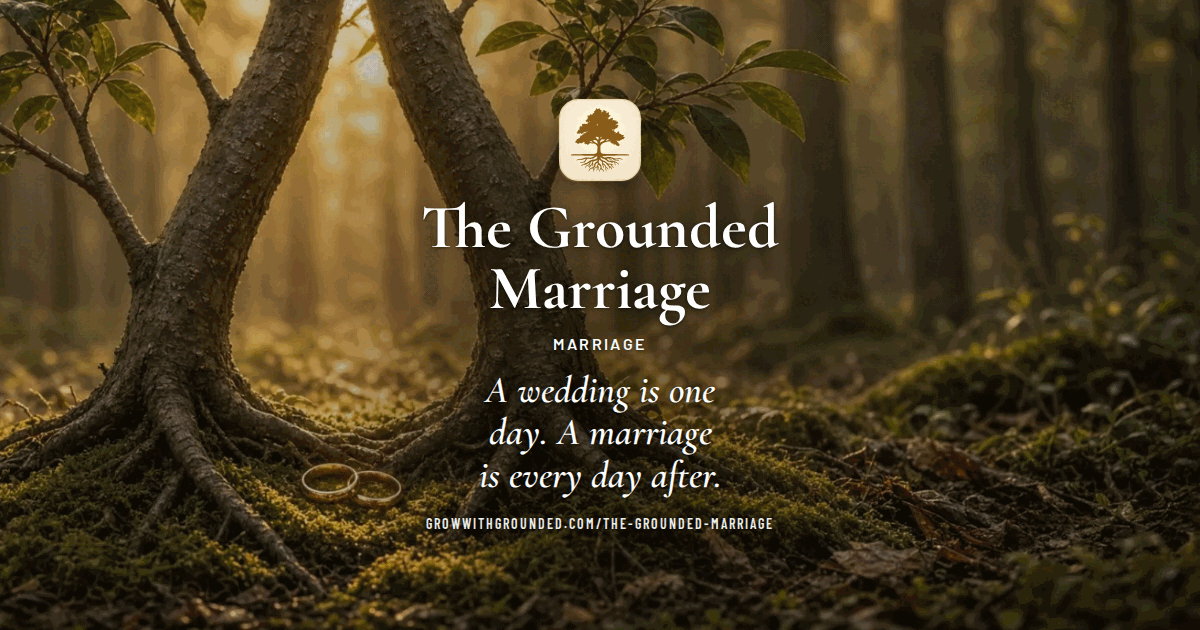
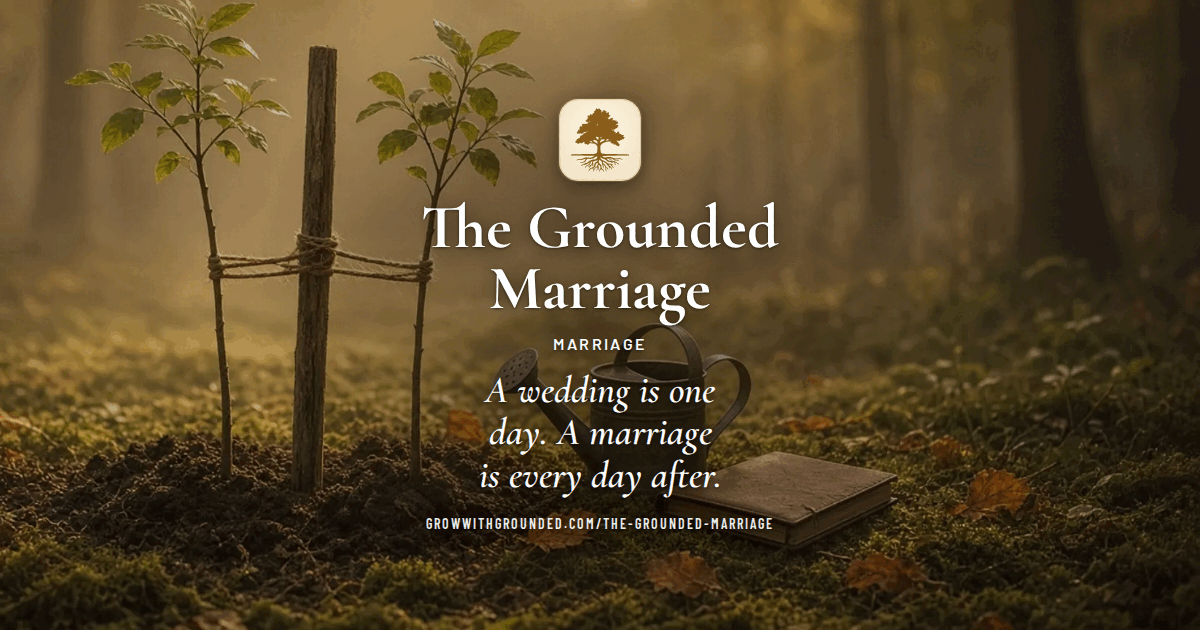
BLD 818: one page for The Grounded Marriage; premarital sessions forward to it; its own menu picture
Claude-Session: https://claude.ai/code/session_01WcZgsAiFdTphwpdYq1mWZF

diff --git a/premarital-counseling.html b/premarital-counseling.html
@@ -1,95 +1,16 @@
 <!DOCTYPE html>
 <html lang="en">
 <head>
-<script>(function(){try{var m=document.cookie.match(/(?:^|; )gg_theme=(light|dark)/);var t=m?m[1]:localStorage.getItem("gg_theme");if(t==="light"||t==="dark"){document.documentElement.setAttribute("data-theme",t);document.documentElement.style.colorScheme=t;}}catch(e){}})();</script>
 <meta charset="UTF-8">
-<meta name="viewport" content="width=device-width, initial-scale=1.0, viewport-fit=cover">
-<meta name="color-scheme" content="light dark">
-<meta name="theme-color" content="#8B5E1A">
-<title>Premarital Education in St. Cloud, MN: The Grounded Marriage | Grow With Grounded</title>
-<meta name="description" content="The Grounded Marriage: 12 hours of premarital sessions with a couple married 22 years, Heartwood, and the reduced Minnesota license fee. St. Cloud, MN.">
-<link rel="canonical" href="https://growwithgrounded.com/premarital-counseling">
-<meta property="og:type" content="website">
-<meta property="og:site_name" content="Grow With Grounded">
-<meta property="og:url" content="https://growwithgrounded.com/premarital-counseling">
-<meta property="og:title" content="Premarital Sessions | Grow With Grounded">
-<meta property="og:description" content="The Grounded Marriage: 12 hours of premarital sessions with a couple married 22 years, Heartwood, and the reduced Minnesota license fee. St. Cloud, MN.">
-<meta property="og:image" content="https://growwithgrounded.com/share/premarital-counseling.png?v=b816">
-<meta property="og:image:width" content="1200">
-<meta property="og:image:height" content="630">
-<meta name="twitter:card" content="summary_large_image">
-<meta name="twitter:title" content="Premarital Sessions | Grow With Grounded">
-<meta name="twitter:description" content="The Grounded Marriage: 12 hours of premarital sessions with a couple married 22 years, Heartwood, and the reduced Minnesota license fee. St. Cloud, MN.">
-<meta name="twitter:image" content="https://growwithgrounded.com/share/premarital-counseling.png?v=b816">
-<link rel="icon" type="image/svg+xml" href="favicon.svg">
-<link rel="apple-touch-icon" href="apple-touch-icon.png?v=b792c">
-<link rel="stylesheet" href="/fonts/fonts.css?v=b788">
-<link rel="stylesheet" href="style.css?v=b817">
-<script type="application/ld+json">{"@context":"https://schema.org","@type":"ProfessionalService","name":"Grow With Grounded","url":"https://growwithgrounded.com/","email":"hello@growwithgrounded.com","description":"Guidance and support to walk through every stage of life: weddings, blessings, funerals, end-of-life and grief support, and growth tools for every age. For all faith traditions and everything in-between.","areaServed":["St. Cloud","Sartell","Sauk Rapids","Waite Park","Minnesota"],"address":{"@type":"PostalAddress","addressLocality":"St. Cloud","addressRegion":"MN","addressCountry":"US"},"founder":[{"@type":"Person","name":"Kayti Joy"},{"@type":"Person","name":"Chris Joy","jobTitle":"Chaplain"}],"priceRange":"$$"}</script>
+<meta name="viewport" content="width=device-width, initial-scale=1.0">
+<title>Premarital Counseling in St. Cloud, MN | The Grounded Marriage</title>
+<link rel="canonical" href="https://growwithgrounded.com/the-grounded-marriage">
+<meta name="robots" content="noindex, follow">
+<meta http-equiv="refresh" content="0; url=/the-grounded-marriage.html">
+<script>/* Premarital sessions are The Grounded Marriage, so this page opens it (BLD 818). Anything after the # comes along. */
+(function(){try{location.replace('/the-grounded-marriage.html'+(location.hash||''));}catch(e){}})();</script>
 </head>
 <body>
-<a class="skip" href="#main">Skip to content</a>
-<header class="topbar"><div class="wrap topbar-inner">
-  <a class="brand" href="index.html" aria-label="Grow With Grounded home"><svg class="brand-icon" aria-hidden="true" focusable="false" viewBox="0 0 3200 3536" preserveAspectRatio="xMidYMid meet"><use href="/shared/marks/grounded-logo.svg?v=b788#icon"/></svg> <span class="brand-name">Grow With Grounded<span class="tm" aria-hidden="true">&trade;</span></span> </a>
-  <button class="menu-btn" aria-expanded="false" aria-controls="site-menu" aria-label="Menu"><svg class="icon" width="24" height="24" viewBox="0 0 24 24" fill="none" stroke="currentColor" stroke-width="2" stroke-linecap="round" aria-hidden="true"><path d="M4 7h16M4 12h16M4 17h16"/></svg></button>
-  <nav class="site-menu" id="site-menu" aria-label="Main"><a href="index.html">Home</a><a href="services.html" class="current" aria-current="page">Services</a><a href="tools.html">Tools</a><a href="stories.html">Stories</a><a href="about.html">About</a><a href="contact.html">Contact</a></nav>
-</div></header>
-<main id="main">
-<section class="pg-hero soft ph ph-marriage ph-top" style="--img:url(/shared/heroes/svc-premarital-wide.webp?v=b816);--img-n:url(/shared/heroes/svc-premarital-narrow.webp?v=b816)">
-  <div class="wrap pg-hero-in">
-    <a class="cp-back" href="services-marriage.html">&larr; Marriage</a>
-    <div class="eyebrow">Marriage</div>
-    <h1>Premarital Sessions</h1>
-    <p class="cer-sub">The Grounded Marriage: build a strong foundation before the wedding day, with a couple who has been married 22 years.</p>
-    <div class="card-actions cer-actions gg-watch-acts"><!-- PAGE VIDEO (BLD 780) --><button type="button" class="btn btn-primary gg-watch gg-watch-hero" data-gg-watch="premarital-counseling" hidden>Watch: Premarital Sessions</button><!-- /PAGE VIDEO --><a class="btn btn-light" href="contact.html#plan=Premarital%20Sessions">Ask About The Grounded Marriage</a></div>
-  </div>
-</section>
-<section>
-  <div class="wrap cp-body">
-    <div class="cp-intro"><p>The wedding is one day. The marriage is every day after. Premarital sessions help you understand each other more deeply, talk honestly about the things couples often avoid, and learn skills that carry you through the hard seasons.</p><p>Our premarital program is <a class="text-link" href="the-grounded-marriage.html">The Grounded Marriage</a>: 12 hours with Chris and Kayti in six two-hour sessions, Heartwood, your private app for the two of you, with Before the Vows, After the Vows, the Couple Workbook, videos, and Practices for Two. It is interfaith and built to your faith.</p></div>
-    <div class="eyebrow">What to expect</div>
-    <h2>From first hello to the day itself.</h2>
-    <ol class="journey cp-journey"><li><span class="j-ic"><b>1</b></span><h3>A first conversation</h3><p>Meet us, ask questions, and see if it is a fit.</p></li><li><span class="j-ic"><b>2</b></span><h3>Before the Vows</h3><p>At your first session you get your Heartwood code. Each of you answers the questions on your own, and Strengths and Growing Edges shows where you stand together.</p></li><li><span class="j-ic"><b>3</b></span><h3>Six sessions together</h3><p>We read your results together and practice communication and conflict skills, two hours at a time, with the Couple Workbook.</p></li><li><span class="j-ic"><b>4</b></span><h3>After the Vows</h3><p>Practices for Two and a monthly check-in at home, then your First-Year Check-in with us.</p></li></ol>
-  </div>
-</section>
-<section>
-  <div class="wrap cp-body">
-    <div class="cp-two">
-      <div class="card cp-card cel"><div class="eyebrow">Make it yours</div><h3>Ways we can shape it</h3><ul class="cp-list"><li><svg viewBox="0 0 24 24" fill="none" stroke="currentColor" stroke-width="2.2" stroke-linecap="round" stroke-linejoin="round" aria-hidden="true"><path d="M5 12.5l4.5 4.5L19 7"/></svg><span>Communication and resolving conflict</span></li><li><svg viewBox="0 0 24 24" fill="none" stroke="currentColor" stroke-width="2.2" stroke-linecap="round" stroke-linejoin="round" aria-hidden="true"><path d="M5 12.5l4.5 4.5L19 7"/></svg><span>Finances and money habits, with The Money Map</span></li><li><svg viewBox="0 0 24 24" fill="none" stroke="currentColor" stroke-width="2.2" stroke-linecap="round" stroke-linejoin="round" aria-hidden="true"><path d="M5 12.5l4.5 4.5L19 7"/></svg><span>Family of origin and in-laws</span></li><li><svg viewBox="0 0 24 24" fill="none" stroke="currentColor" stroke-width="2.2" stroke-linecap="round" stroke-linejoin="round" aria-hidden="true"><path d="M5 12.5l4.5 4.5L19 7"/></svg><span>Faith and shared values, built to your tradition, two traditions, or none</span></li><li><svg viewBox="0 0 24 24" fill="none" stroke="currentColor" stroke-width="2.2" stroke-linecap="round" stroke-linejoin="round" aria-hidden="true"><path d="M5 12.5l4.5 4.5L19 7"/></svg><span>Roles, expectations, closeness, and parenting</span></li><li><svg viewBox="0 0 24 24" fill="none" stroke="currentColor" stroke-width="2.2" stroke-linecap="round" stroke-linejoin="round" aria-hidden="true"><path d="M5 12.5l4.5 4.5L19 7"/></svg><span>Your goals and dreams for the years ahead</span></li></ul></div>
-      <div class="card cp-card"><div class="eyebrow">Good to know</div><h3>Practical details</h3><ul class="cp-list plain"><li><span>In Minnesota, 12 hours of premarital education that includes a premarital inventory and communication and conflict skills lowers your marriage license fee to $50 instead of $125. Our 12 hours are built for that, and we sign the Educator&#39;s Statement your county requires.</span></li><li><span>Available in person near St. Cloud or on Zoom.</span></li><li><span>Pairs naturally with your wedding ceremony: The Grounded Marriage + Your Ceremony brings both together, with your rehearsal included.</span></li></ul></div>
-    </div>
-    <div class="cp-callout"><h3>Heartwood, your private app for the two of you.</h3><p>The Grounded Marriage comes with Heartwood, and it opens with the code from your first session. In Before the Vows, each of you answers privately, then Strengths and Growing Edges and Talk About This show what to talk about next, and where you already agree. After the Vows opens after your wedding. Your answers stay on your own devices.</p><a class="text-link" href="/heartwood/">See a Sample</a></div>
-    
-    <div class="eyebrow" style="margin-top:40px;">Common questions</div>
-    <details class="faq"><summary>Do we need to be religious?</summary><p>The Grounded Marriage welcomes couples of all faith traditions and everything in-between, and we build your sessions to your faith, whatever it is.</p></details><details class="faq"><summary>What if we are already married?</summary><p>Ask us. After the Vows, in Heartwood, is made for married couples, with Practices for Two and the Monthly Check-in for Two, and we can shape sessions for where you are now.</p></details><details class="faq"><summary>Is this therapy?</summary><p>It is premarital education and coaching. If deeper issues come up, we will help you find the right support.</p></details>
-    <details class="cp-rates" open><summary><b>Investment</b><span>View rates</span></summary>
-      <table class="rate-table"><tr><td>The Grounded Marriage (12 hours of premarital sessions with both of us)</td><td>From $950</td></tr><tr><td>The Grounded Marriage + Your Ceremony (the program, a fully custom wedding ceremony, and your rehearsal)</td><td>From $1,650</td></tr></table>
-      <p class="rate-note">Travel is included for the first 30 miles. Beyond that, travel is charged at the IRS mileage rate, plus airfare if needed and a hotel or host home for overnights. We travel anywhere. <a class="text-link" href="rates.html">See all rates</a></p>
-      <p class="rate-note"><strong>Everyone is welcome, whatever your budget.</strong> Reduced rates and grace spots are set aside every month. If you're able to give a little extra when you pay, it funds a grace spot for another couple.</p>
-    </details>
-    <div class="cp-related" style="margin-top:40px;"><div class="eyebrow">You may also like</div><div class="cer-tiles"><a class="cer-tile cel" href="the-grounded-marriage.html"><b>The Grounded Marriage</b><span>Premarital sessions with Chris and Kayti, with Heartwood.</span></a><a class="cer-tile cel" href="weddings.html"><b>Weddings</b><span>Your story, your vows, your way.</span></a><a class="cer-tile cel" href="elopements.html"><b>Elopements</b><span>Just the two of you, anywhere.</span></a></div></div>
-  </div>
-</section>
-<section class="cer-cta-band">
-  <div class="wrap">
-    <h2>Ready to talk?</h2>
-    <p>Tell us a little about what you have in mind. We read every message and reply within two days.</p>
-    <a class="btn btn-light" href="contact.html#plan=Premarital%20Sessions">Ask About The Grounded Marriage</a>
-  </div>
-</section>
-</main>
-<footer class="site-footer"><div class="wrap">
-  <a class="foot-brand" href="index.html" aria-label="Grow With Grounded home"><svg class="foot-tree" aria-hidden="true" focusable="false" viewBox="0 0 4664 3536" preserveAspectRatio="xMidYMid meet"><use href="/shared/marks/grounded-logo.svg?v=b788#tree"/></svg> <span class="foot-name">Grow With Grounded<span class="tm" aria-hidden="true">&trade;</span></span> </a>
-  <p class="foot-tag">For every threshold, from first breath to last.</p>
-  <nav class="foot-links" aria-label="Footer">
-    <a class="text-link" href="index.html">Home</a><a class="text-link" href="services.html">Services</a><a class="text-link" href="stories.html">Stories</a><a class="text-link" href="https://growwithgrounded.com/library/">Library</a><a class="text-link" href="rates.html">Rates</a><a class="text-link" href="about.html">About</a><a class="text-link" href="contact.html">Contact</a><a class="text-link" href="tools.html">Tools</a><a class="text-link" href="https://growwithgrounded.com/maple/">Maple</a><a class="text-link" href="https://growwithgrounded.com/aspen/">Aspen</a><a class="text-link" href="https://growwithgrounded.com/pine/">Pine</a><a class="text-link" href="https://growwithgrounded.com/birch/">Birch</a><a class="text-link" href="https://growwithgrounded.com/oak/">Oak</a><a class="text-link" href="https://growwithgrounded.com/sequoia/">Sequoia</a><a class="text-link" href="https://growwithgrounded.com/willow/">Willow</a><a class="text-link" href="https://growwithgrounded.com/grove/">The Grove</a><a class="text-link" href="planning-a-farewell.html">Planning a Farewell</a><a class="text-link" href="obituary-helper.html">Obituary Helper</a><a class="text-link" href="eulogy-helper.html">Eulogy Helper</a><a class="text-link" href="https://growwithgrounded.com/field-guide/">Field Guide</a><a class="text-link" href="https://chri5j0y.substack.com/subscribe" target="_blank" rel="noopener">Subscribe</a><a class="text-link" href="privacy.html">Privacy</a><a class="text-link" href="terms.html">Terms</a><a class="text-link" href="accessibility.html">Accessibility</a>
-  </nav>
-  <p class="foot-local">Grow With Grounded is based in St. Cloud, Minnesota. We travel anywhere.<br><span class="foot-contact"><a class="text-link email-link" data-user="hello" href="contact.html"><span data-fill>hello [at] growwithgrounded [dot] com</span></a><span class="foot-sep" aria-hidden="true"> &middot; </span><a class="text-link" href="tel:+13202917393">320-291-7393</a></span></p>
-  <p class="foot-crisis">In crisis or thinking about ending your life? Call or text 988, any time.</p>
-  <p class="copyright">&copy; <span class="year"></span> Grow With Grounded LLC. All rights reserved. Grow With Grounded&trade; is a trademark of Grow With Grounded LLC.</p>
-</div></footer>
-<script src="site.js?v=b779n"></script>
-<script src="nav.js?v=b818" defer></script>
-<!-- PAGE VIDEO (BLD 780) --><script src="/shared/page-videos.js?v=b813" defer></script><!-- /PAGE VIDEO -->
+<p><a href="/the-grounded-marriage.html">Premarital sessions are part of The Grounded Marriage. Open The Grounded Marriage.</a></p>
 </body>
 </html>

diff --git a/services.html b/services.html
@@ -320,7 +320,7 @@ a.chip-btn{text-decoration:none;display:inline-block;}
     <p class="fam-open"><a class="text-link" href="services-marriage.html">Open the Marriage page</a></p>
     <div class="card gm-pack"><div class="gm-pack-head"><span class="cer-ic"><svg viewBox="0 0 24 24" fill="none" stroke="currentColor" stroke-width="1.7" stroke-linecap="round" stroke-linejoin="round" aria-hidden="true"><path d="M12 21V11"/><path d="M12 11c0-3-2-5-5-5 0 3 2 5 5 5zM12 13c0-3 2-5 5-5 0 3-2 5-5 5z"/><path d="M8 21h8"/></svg></span><div><div class="eyebrow">Featured program</div><h3>The Grounded Marriage</h3><p>Twelve hours of premarital sessions with both of us, and Heartwood, your private app for the two of you, before the vows and after.</p></div><div class="gm-price"><b>From $950</b><span>With your ceremony and rehearsal, from $1,650</span></div></div><ul class="gm-list"><li>12 hours with Chris and Kayti, in six sessions, built to your faith</li><li>Heartwood, your private app, with Before the Vows and After the Vows</li><li>The Couple Workbook, videos, and Practices for Two</li><li>The 12 hours and Educator's Statement for the reduced Minnesota license fee</li><li>The First-Year Check-in</li></ul><div class="card-actions"><a class="btn btn-primary" href="the-grounded-marriage.html">See the details</a><a class="btn btn-line" href="contact.html#plan=Premarital%20Sessions">Ask about The Grounded Marriage</a></div></div>
     <p class="gm-or">Or book any part on its own:</p>
-    <div class="cer-tiles"><a class="cer-tile cel has-pic" href="weddings.html"><span class="cer-pic" style="background-image:url(/shared/cards/weddings.webp?v=b816)"></span><span class="cer-ic"><svg viewBox="0 0 24 24" fill="none" stroke="currentColor" stroke-width="1.7" stroke-linecap="round" stroke-linejoin="round" aria-hidden="true"><circle cx="11" cy="15" r="6"/><circle cx="18" cy="15" r="6"/><path d="M13 6l2-3 2 3"/></svg></span><b>Weddings</b><span>Your story, your vows, your way.</span></a><a class="cer-tile cel has-pic" href="elopements.html"><span class="cer-pic" style="background-image:url(/shared/cards/elopements.webp?v=b816)"></span><span class="cer-ic"><svg viewBox="0 0 24 24" fill="none" stroke="currentColor" stroke-width="1.7" stroke-linecap="round" stroke-linejoin="round" aria-hidden="true"><path d="M5 21c3-4 1-7 6-9s7-5 7-9"/><circle cx="18" cy="3.5" r="1.5"/><path d="M3 21h4"/></svg></span><b>Elopements</b><span>Just the two of you, anywhere.</span></a><a class="cer-tile cel has-pic" href="vow-renewals.html"><span class="cer-pic" style="background-image:url(/shared/cards/vow-renewals.webp?v=b816)"></span><span class="cer-ic"><svg viewBox="0 0 24 24" fill="none" stroke="currentColor" stroke-width="1.7" stroke-linecap="round" stroke-linejoin="round" aria-hidden="true"><path d="M12 20s-7-4.4-7-10a4 4 0 0 1 7-2.6A4 4 0 0 1 19 10c0 5.6-7 10-7 10z"/><path d="M9.5 11.5l1.8 1.8 3.2-3.6"/></svg></span><b>Vow Renewals</b><span>For couples who would say it all again.</span></a><a class="cer-tile cel has-pic" href="premarital-counseling.html"><span class="cer-pic" style="background-image:url(/shared/cards/premarital.webp?v=b816)"></span><span class="cer-ic"><svg viewBox="0 0 24 24" fill="none" stroke="currentColor" stroke-width="1.7" stroke-linecap="round" stroke-linejoin="round" aria-hidden="true"><path d="M4 21c2-4 5-6 8-9M20 21c-2-4-5-6-8-9"/><path d="M12 12V5"/><path d="M12 6c-1.2-1.6-3.6-1.2-3.2.6.2 1.1 1.5 2 3.2 3.2 1.7-1.2 3-2.1 3.2-3.2.4-1.8-2-2.2-3.2-.6z"/></svg></span><b>Premarital Sessions</b><span>The Grounded Marriage, with a couple married 22 years.</span></a></div>
+    <div class="cer-tiles"><a class="cer-tile cel has-pic" href="weddings.html"><span class="cer-pic" style="background-image:url(/shared/cards/weddings.webp?v=b816)"></span><span class="cer-ic"><svg viewBox="0 0 24 24" fill="none" stroke="currentColor" stroke-width="1.7" stroke-linecap="round" stroke-linejoin="round" aria-hidden="true"><circle cx="11" cy="15" r="6"/><circle cx="18" cy="15" r="6"/><path d="M13 6l2-3 2 3"/></svg></span><b>Weddings</b><span>Your story, your vows, your way.</span></a><a class="cer-tile cel has-pic" href="elopements.html"><span class="cer-pic" style="background-image:url(/shared/cards/elopements.webp?v=b816)"></span><span class="cer-ic"><svg viewBox="0 0 24 24" fill="none" stroke="currentColor" stroke-width="1.7" stroke-linecap="round" stroke-linejoin="round" aria-hidden="true"><path d="M5 21c3-4 1-7 6-9s7-5 7-9"/><circle cx="18" cy="3.5" r="1.5"/><path d="M3 21h4"/></svg></span><b>Elopements</b><span>Just the two of you, anywhere.</span></a><a class="cer-tile cel has-pic" href="vow-renewals.html"><span class="cer-pic" style="background-image:url(/shared/cards/vow-renewals.webp?v=b816)"></span><span class="cer-ic"><svg viewBox="0 0 24 24" fill="none" stroke="currentColor" stroke-width="1.7" stroke-linecap="round" stroke-linejoin="round" aria-hidden="true"><path d="M12 20s-7-4.4-7-10a4 4 0 0 1 7-2.6A4 4 0 0 1 19 10c0 5.6-7 10-7 10z"/><path d="M9.5 11.5l1.8 1.8 3.2-3.6"/></svg></span><b>Vow Renewals</b><span>For couples who would say it all again.</span></a></div>
   </div>
 </section>
 <section id="celebrations">

diff --git a/services-marriage.html b/services-marriage.html
@@ -315,7 +315,7 @@ a.chip-btn{text-decoration:none;display:inline-block;}
   <div class="wrap">
     <div class="card gm-pack"><div class="gm-pack-head"><span class="cer-ic"><svg viewBox="0 0 24 24" fill="none" stroke="currentColor" stroke-width="1.7" stroke-linecap="round" stroke-linejoin="round" aria-hidden="true"><path d="M12 21V11"/><path d="M12 11c0-3-2-5-5-5 0 3 2 5 5 5zM12 13c0-3 2-5 5-5 0 3-2 5-5 5z"/><path d="M8 21h8"/></svg></span><div><div class="eyebrow">Featured program</div><h3>The Grounded Marriage</h3><p>Twelve hours of premarital sessions with both of us, and Heartwood, your private app for the two of you, before the vows and after.</p></div><div class="gm-price"><b>From $950</b><span>With your ceremony and rehearsal, from $1,650</span></div></div><ul class="gm-list"><li>12 hours with Chris and Kayti, in six sessions, built to your faith</li><li>Heartwood, your private app, with Before the Vows and After the Vows</li><li>The Couple Workbook, videos, and Practices for Two</li><li>The 12 hours and Educator's Statement for the reduced Minnesota license fee</li><li>The First-Year Check-in</li></ul><div class="card-actions"><a class="btn btn-primary" href="the-grounded-marriage.html">See the details</a><a class="btn btn-line" href="contact.html#plan=Premarital%20Sessions">Ask about The Grounded Marriage</a></div></div>
     <p class="gm-or">Or book any part on its own:</p>
-    <div class="cer-tiles"><a class="cer-tile cel has-pic" href="weddings.html"><span class="cer-pic" style="background-image:url(/shared/cards/weddings.webp?v=b816)"></span><span class="cer-ic"><svg viewBox="0 0 24 24" fill="none" stroke="currentColor" stroke-width="1.7" stroke-linecap="round" stroke-linejoin="round" aria-hidden="true"><circle cx="11" cy="15" r="6"/><circle cx="18" cy="15" r="6"/><path d="M13 6l2-3 2 3"/></svg></span><b>Weddings</b><span>Your story, your vows, your way.</span></a><a class="cer-tile cel has-pic" href="elopements.html"><span class="cer-pic" style="background-image:url(/shared/cards/elopements.webp?v=b816)"></span><span class="cer-ic"><svg viewBox="0 0 24 24" fill="none" stroke="currentColor" stroke-width="1.7" stroke-linecap="round" stroke-linejoin="round" aria-hidden="true"><path d="M5 21c3-4 1-7 6-9s7-5 7-9"/><circle cx="18" cy="3.5" r="1.5"/><path d="M3 21h4"/></svg></span><b>Elopements</b><span>Just the two of you, anywhere.</span></a><a class="cer-tile cel has-pic" href="vow-renewals.html"><span class="cer-pic" style="background-image:url(/shared/cards/vow-renewals.webp?v=b816)"></span><span class="cer-ic"><svg viewBox="0 0 24 24" fill="none" stroke="currentColor" stroke-width="1.7" stroke-linecap="round" stroke-linejoin="round" aria-hidden="true"><path d="M12 20s-7-4.4-7-10a4 4 0 0 1 7-2.6A4 4 0 0 1 19 10c0 5.6-7 10-7 10z"/><path d="M9.5 11.5l1.8 1.8 3.2-3.6"/></svg></span><b>Vow Renewals</b><span>For couples who would say it all again.</span></a><a class="cer-tile cel has-pic" href="premarital-counseling.html"><span class="cer-pic" style="background-image:url(/shared/cards/premarital.webp?v=b816)"></span><span class="cer-ic"><svg viewBox="0 0 24 24" fill="none" stroke="currentColor" stroke-width="1.7" stroke-linecap="round" stroke-linejoin="round" aria-hidden="true"><path d="M4 21c2-4 5-6 8-9M20 21c-2-4-5-6-8-9"/><path d="M12 12V5"/><path d="M12 6c-1.2-1.6-3.6-1.2-3.2.6.2 1.1 1.5 2 3.2 3.2 1.7-1.2 3-2.1 3.2-3.2.4-1.8-2-2.2-3.2-.6z"/></svg></span><b>Premarital Sessions</b><span>The Grounded Marriage, with a couple married 22 years.</span></a></div>
+    <div class="cer-tiles"><a class="cer-tile cel has-pic" href="weddings.html"><span class="cer-pic" style="background-image:url(/shared/cards/weddings.webp?v=b816)"></span><span class="cer-ic"><svg viewBox="0 0 24 24" fill="none" stroke="currentColor" stroke-width="1.7" stroke-linecap="round" stroke-linejoin="round" aria-hidden="true"><circle cx="11" cy="15" r="6"/><circle cx="18" cy="15" r="6"/><path d="M13 6l2-3 2 3"/></svg></span><b>Weddings</b><span>Your story, your vows, your way.</span></a><a class="cer-tile cel has-pic" href="elopements.html"><span class="cer-pic" style="background-image:url(/shared/cards/elopements.webp?v=b816)"></span><span class="cer-ic"><svg viewBox="0 0 24 24" fill="none" stroke="currentColor" stroke-width="1.7" stroke-linecap="round" stroke-linejoin="round" aria-hidden="true"><path d="M5 21c3-4 1-7 6-9s7-5 7-9"/><circle cx="18" cy="3.5" r="1.5"/><path d="M3 21h4"/></svg></span><b>Elopements</b><span>Just the two of you, anywhere.</span></a><a class="cer-tile cel has-pic" href="vow-renewals.html"><span class="cer-pic" style="background-image:url(/shared/cards/vow-renewals.webp?v=b816)"></span><span class="cer-ic"><svg viewBox="0 0 24 24" fill="none" stroke="currentColor" stroke-width="1.7" stroke-linecap="round" stroke-linejoin="round" aria-hidden="true"><path d="M12 20s-7-4.4-7-10a4 4 0 0 1 7-2.6A4 4 0 0 1 19 10c0 5.6-7 10-7 10z"/><path d="M9.5 11.5l1.8 1.8 3.2-3.6"/></svg></span><b>Vow Renewals</b><span>For couples who would say it all again.</span></a></div>
   </div>
 </section>
 <section>

diff --git a/the-grounded-marriage.html b/the-grounded-marriage.html
@@ -6,21 +6,21 @@
 <meta name="viewport" content="width=device-width, initial-scale=1.0, viewport-fit=cover">
 <meta name="color-scheme" content="light dark">
 <meta name="theme-color" content="#8B5E1A">
-<title>Premarital Education in Minnesota | The Grounded Marriage</title>
-<meta name="description" content="The Grounded Marriage: twelve hours of premarital sessions with Chris and Kayti, Heartwood, a first-year check-in, and Minnesota&#39;s reduced license fee.">
+<title>Premarital Counseling in St. Cloud, MN | The Grounded Marriage</title>
+<meta name="description" content="The Grounded Marriage, our premarital program in St. Cloud, MN and on Zoom: twelve hours of premarital sessions with Chris and Kayti, Heartwood, a first-year check-in, and Minnesota&#39;s reduced license fee.">
 <link rel="canonical" href="https://growwithgrounded.com/the-grounded-marriage">
 <meta property="og:type" content="website">
 <meta property="og:site_name" content="Grow With Grounded">
 <meta property="og:url" content="https://growwithgrounded.com/the-grounded-marriage">
 <meta property="og:title" content="The Grounded Marriage | Grow With Grounded">
-<meta property="og:description" content="The Grounded Marriage: twelve hours of premarital sessions with Chris and Kayti, Heartwood, a first-year check-in, and Minnesota&#39;s reduced license fee.">
-<meta property="og:image" content="https://growwithgrounded.com/share/the-grounded-marriage.png?v=b792c">
+<meta property="og:description" content="The Grounded Marriage, our premarital program in St. Cloud, MN and on Zoom: twelve hours of premarital sessions with Chris and Kayti, Heartwood, a first-year check-in, and Minnesota&#39;s reduced license fee.">
+<meta property="og:image" content="https://growwithgrounded.com/share/the-grounded-marriage.png?v=b818">
 <meta property="og:image:width" content="1200">
 <meta property="og:image:height" content="630">
 <meta name="twitter:card" content="summary_large_image">
 <meta name="twitter:title" content="The Grounded Marriage | Grow With Grounded">
-<meta name="twitter:description" content="The Grounded Marriage: twelve hours of premarital sessions with Chris and Kayti, Heartwood, a first-year check-in, and Minnesota&#39;s reduced license fee.">
-<meta name="twitter:image" content="https://growwithgrounded.com/share/the-grounded-marriage.png?v=b792c">
+<meta name="twitter:description" content="The Grounded Marriage, our premarital program in St. Cloud, MN and on Zoom: twelve hours of premarital sessions with Chris and Kayti, Heartwood, a first-year check-in, and Minnesota&#39;s reduced license fee.">
+<meta name="twitter:image" content="https://growwithgrounded.com/share/the-grounded-marriage.png?v=b818">
 <link rel="icon" type="image/svg+xml" href="favicon.svg">
 <link rel="apple-touch-icon" href="apple-touch-icon.png?v=b792c">
 <link rel="stylesheet" href="/fonts/fonts.css?v=b788">
@@ -35,7 +35,7 @@
   <nav class="site-menu" id="site-menu" aria-label="Main"><a href="index.html">Home</a><a href="services.html" class="current" aria-current="page">Services</a><a href="tools.html">Tools</a><a href="stories.html">Stories</a><a href="about.html">About</a><a href="contact.html">Contact</a></nav>
 </div></header>
 <main id="main">
-<section class="pg-hero soft ph ph-marriage ph-top" style="--img:url(/shared/heroes/page-marriage-wide.webp);--img-n:url(/shared/heroes/page-marriage-narrow.webp)">
+<section class="pg-hero soft ph ph-marriage ph-top" style="--img:url(/shared/heroes/svc-premarital-wide.webp?v=b816);--img-n:url(/shared/heroes/svc-premarital-narrow.webp?v=b816)">
   <div class="wrap pg-hero-in">
     <a class="cp-back" href="services-marriage.html">&larr; Marriage</a>
     <div class="eyebrow">Marriage</div>

diff --git a/nav.js b/nav.js
@@ -14,7 +14,7 @@
   var HOME = /(^|\.)growwithgrounded\.com$|^localhost$|^127\.0\.0\.1$/.test(location.hostname) ? '' : 'https://growwithgrounded.com';
   var mk = function (k) { return '<img class="gn-mark" src="' + HOME + '/shared/marks/' + k + '-small.svg" alt="" width="42" height="42">'; };
   var ic = {
-    maple: mk('maple'), aspen: mk('aspen'), pine: mk('pine'), birch: mk('birch'), oak: mk('oak'), sequoia: mk('sequoia'), willow: mk('willow'), grove: mk('grove'), fieldguide: mk('fieldguide'), library: mk('library'), marriage: mk('marriage'), heartwood: mk('heartwood'), farewell: mk('farewell'), obituary: mk('obituary'), eulogy: mk('eulogy'),
+    maple: mk('maple'), aspen: mk('aspen'), pine: mk('pine'), birch: mk('birch'), oak: mk('oak'), sequoia: mk('sequoia'), willow: mk('willow'), grove: mk('grove'), fieldguide: mk('fieldguide'), library: mk('library'), marriage: mk('marriage'), heartwood: mk('heartwood'), gm: mk('grounded-marriage'), farewell: mk('farewell'), obituary: mk('obituary'), eulogy: mk('eulogy'),
     tree: '<svg viewBox="0 0 24 24" fill="none" stroke="#8B5E1A" stroke-width="1.8" stroke-linecap="round" stroke-linejoin="round"><circle cx="12" cy="8.5" r="5.5"/><path d="M12 14v7"/><path d="M8 21h8"/><path d="M12 17l-3 2M12 16.5l3 2"/></svg>',
     leaf: '<svg viewBox="0 0 24 24" fill="none" stroke="#4A5D3A" stroke-width="1.8" stroke-linecap="round" stroke-linejoin="round"><path d="M5 19c0-8.5 5.5-14 15-14 0 9.5-6 14-15 14z"/><path d="M5 19l8.5-8.5"/></svg>',
     door: '<svg viewBox="0 0 24 24" fill="none" stroke="currentColor" stroke-width="1.8" stroke-linecap="round" stroke-linejoin="round"><path d="M6 21V4.5A1.5 1.5 0 0 1 7.5 3h9A1.5 1.5 0 0 1 18 4.5V21"/><path d="M3 21h18"/><circle cx="14.5" cy="12.5" r="1"/></svg>',
@@ -130,7 +130,7 @@
      Each family is a picture card that opens its own page (BLD 817, services-<family>.html); See all services stays at the foot.
      It opens like Tools: a panel under the button on a computer, the menu's own sub-page on a phone. */
   var SVC_FEATURED = { title: 'The Grounded Marriage', desc: 'Premarital sessions with Chris and Kayti, with Heartwood', href: HOME + '/the-grounded-marriage.html', bg: '#E3EAF2',
-    icon: ic.marriage };
+    icon: ic.gm };
   var SVC_FAMILIES = [
     ['Marriage', 'Weddings and The Grounded Marriage', 'marriage'],
     ['Celebrations', 'Blessings and milestones', 'celebrations'],
@@ -402,7 +402,7 @@
     if (window.GGSearch && window.GGSearch.attach) return Promise.resolve(window.GGSearch);
     if (loading) return loading;
     loading = new Promise(function (ok) {
-      var s = document.createElement('script'); s.src = base + '/search.js?v=b817';
+      var s = document.createElement('script'); s.src = base + '/search.js?v=b818';
       s.onload = function () { ok(window.GGSearch); }; s.onerror = function () { loading = null; ok(null); };
       document.body.appendChild(s);
     });

diff --git a/search.js b/search.js
@@ -54,11 +54,10 @@
     { title: 'Farewells', sub: 'Honoring a life. Funerals, celebrations of life, and bedside blessings', href: '/services-farewells.html', keys: 'farewells funeral funerals memorial celebration of life bedside blessing death died burial graveside' },
     { title: 'Hard Seasons', sub: 'We\u2019re with you. End-of-life support, grief, and caregiving', href: '/services-hard-seasons.html', keys: 'hard seasons end of life dying grief caregiver caregiving hospice support' },
     { title: 'For Teams', sub: 'Speaking, training, and support for organizations', href: '/services-for-teams.html', keys: 'teams team speaking training organizations hospice church school staff' },
-    { title: 'The Grounded Marriage', sub: 'A premarital education program with Chris and Kayti: 12 hours together, Heartwood, and the First-Year Check-in, from $950; with your ceremony and rehearsal, from $1,650', href: '/the-grounded-marriage.html', keys: 'heartwood marriage married wedding package premarital premarital counseling premarital education engaged couple grounded marriage license discount educator statement' },
+    { title: 'The Grounded Marriage', sub: 'A premarital education program with Chris and Kayti: 12 hours together, Heartwood, and the First-Year Check-in, from $950; with your ceremony and rehearsal, from $1,650', href: '/the-grounded-marriage.html', keys: 'premarital counseling premarital education premarital sessions engaged license discount heartwood marriage married wedding package premarital premarital counseling premarital education engaged couple grounded marriage license discount educator statement' },
     { title: 'Weddings', sub: 'Custom ceremonies, from $650', href: '/weddings.html', keys: 'wedding weddings officiant marry married ceremony vows' },
     { title: 'Elopements', sub: 'Just the two of you, anywhere, from $350', href: '/elopements.html', keys: 'elope elopement courthouse small simple legal ceremony' },
     { title: 'Vow Renewals', sub: 'For couples who would say it all again, from $500', href: '/vow-renewals.html', keys: 'vow renewal renew vows anniversary' },
-    { title: 'Premarital Sessions', sub: 'The Grounded Marriage with Chris and Kayti, from $950', href: '/premarital-counseling.html', keys: 'premarital counseling premarital education premarital sessions engaged license discount' },
     { title: 'Funerals and Memorials', sub: 'Honest, personal services, from $500', href: '/funerals-memorials.html', keys: 'funeral funerals memorial service died death officiant eulogy' },
     { title: 'Celebrations of Life', sub: 'Stories, music, laughter, and room for tears', href: '/celebrations-of-life.html', keys: 'celebration of life memorial death died' },
     { title: 'Bedside Blessings', sub: 'Prayers and rituals for the last days', href: '/bedside-blessings.html', keys: 'bedside blessing dying last rites prayer hospice' },

diff --git a/field-guide/share.js b/field-guide/share.js
@@ -77,7 +77,7 @@ const SVC_PAGES = [
   ['weddings', 'Weddings', 'page-marriage', 'Your story, your vows, and a ceremony that sounds like the two of you.', 'Marriage'],
   ['elopements', 'Elopements', 'page-marriage', 'Just the two of you, or a handful of people you love, anywhere that matters to you.', 'Marriage'],
   ['vow-renewals', 'Vow Renewals', 'page-marriage', 'For couples who would say it all again, and want the people they love to hear it.', 'Marriage'],
-  ['premarital-counseling', 'Premarital Sessions', 'page-marriage', 'The Grounded Marriage\u2122: build a strong foundation before the wedding day, with a couple who has been married 22 years.', 'Marriage'],
+  ['the-grounded-marriage', 'The Grounded Marriage', 'svc-premarital', 'A wedding is one day. A marriage is every day after. Twelve hours with Chris and Kayti, and Heartwood.', 'Marriage'],
   ['child-blessings', 'Child Blessings', 'page-celebrations', 'Welcoming a new life into a family and a circle of people who will love them.', 'Celebrations'],
   ['house-blessings', 'House Blessings', 'page-celebrations', 'A new home, or a new beginning in an old one.', 'Celebrations'],
   ['milestones', 'Milestone Celebrations', 'page-celebrations', 'Graduations, retirements, recovery anniversaries, and other thresholds worth honoring.', 'Celebrations'],

diff --git a/heartwood/index.html b/heartwood/index.html
@@ -56,7 +56,7 @@
     <div class="ff-card">
       <h2>More for Couples</h2>
       <p class="ff-sub">For the season before the wedding, and the first years after.</p>
-      <div class="ff-links"><a href="/the-grounded-marriage.html">The Grounded Marriage</a><a href="/premarital-counseling.html">Premarital Sessions</a><a href="/weddings.html">Weddings</a><a href="/birch/">Birch, for ages 18 to 26</a><a href="/oak/">Oak, for adults 26 to 60</a><a href="/grove/">The Grove, for your family</a></div>
+      <div class="ff-links"><a href="/the-grounded-marriage.html">The Grounded Marriage</a><a href="/weddings.html">Weddings</a><a href="/birch/">Birch, for ages 18 to 26</a><a href="/oak/">Oak, for adults 26 to 60</a><a href="/grove/">The Grove, for your family</a></div>
       <p class="ff-sources" id="hw-more" style="margin-top:14px">Chris and Kayti offer The Grounded Marriage and ceremonies for couples of all faith traditions and everything in-between. Bring your card and your Talk About This list to your sessions. <a class="text-link" href="/contact.html#plan=Premarital%20Sessions">Ask About The Grounded Marriage</a>.</p>
     </div>
 

diff --git a/tools.html b/tools.html
@@ -504,7 +504,7 @@ body.bro-open{overflow:hidden;}
 </div></footer>
 <!-- PAGE VIDEO (BLD 761) --><script src="/shared/page-videos.js?v=b813" defer></script><!-- /PAGE VIDEO -->
 <script src="site.js?v=b779n"></script>
-<script src="search.js?v=b817" defer></script>
+<script src="search.js?v=b818" defer></script>
 <script src="nav.js?v=b818" defer></script>
 <script src="/shared/gg-print.js?v=b803" defer></script>
 <script>function ggFlyer(t,k){if(window.GGPrint)GGPrint.flyer(t,k);}</script>

diff --git a/get-grounded-now.html b/get-grounded-now.html
@@ -49,7 +49,7 @@
   <p class="copyright">&copy; <span class="year"></span> Grow With Grounded LLC. All rights reserved. Grow With Grounded&trade; is a trademark of Grow With Grounded LLC.</p>
 </div></footer>
 <script src="site.js?v=b779n"></script>
-<script src="search.js?v=b817" defer></script>
+<script src="search.js?v=b818" defer></script>
 <script src="nav.js?v=b818" defer></script>
 <script src="/shared/ggn.js?v=b817" defer></script>
 </body>

diff --git a/field-guide/index.html b/field-guide/index.html
@@ -653,7 +653,7 @@ body.cd-noscroll{overflow:hidden;}
 <script src="../shared/grove-scene.js?v=w2k"></script>
 <script src="../shared/gg-grove-row.js?v=b770"></script>
 <script src="qr.js?v=b782"></script>
-<script src="share.js?v=b817"></script>
+<script src="share.js?v=b818"></script>
 <script src="../shared/gg-listen.js?v=b817"></script>
 <script src="../shared/gg-readings.js?v=b817"></script>
 <script src="ceremonies.js?v=b798"></script>
